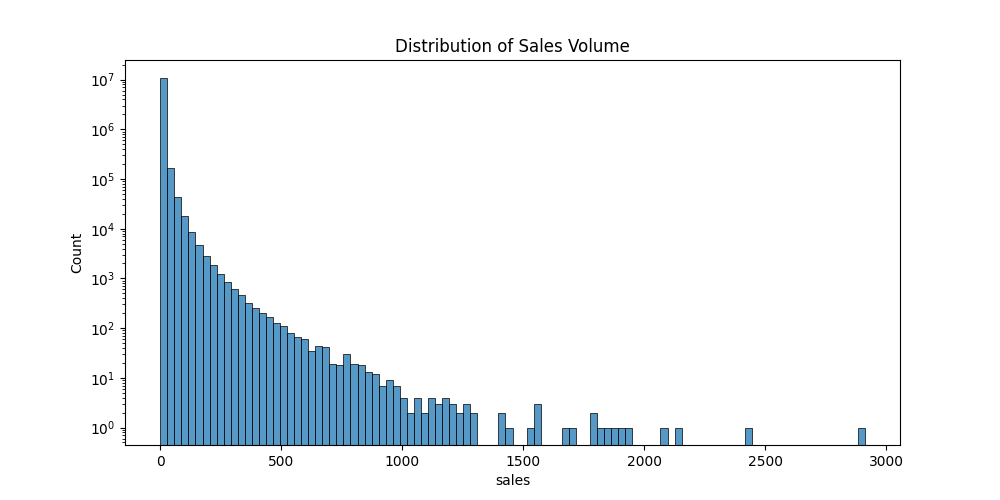
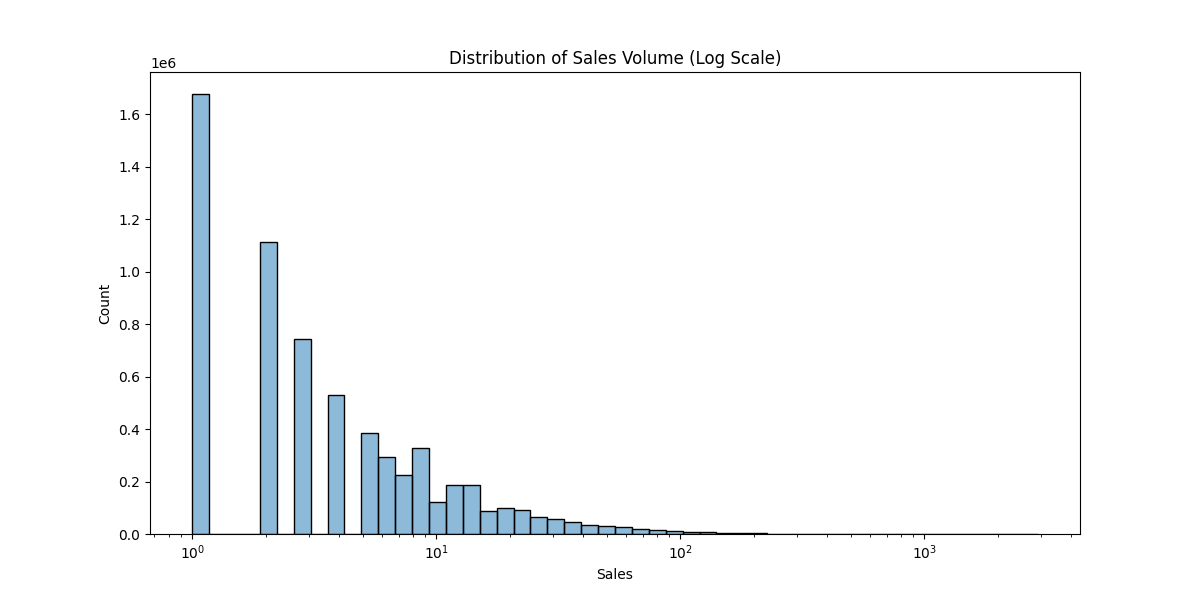
Updated  EDA

diff --git a/EDA.md b/EDA.md
@@ -3,7 +3,7 @@
 This analysis characterizes the high-dimensional feature space of the M5 Walmart dataset to validate the assumptions required for Causal Inference. The primary objective is to isolate the relationship between price shifts and quantity demanded while identifying the confounding variables that the Double Machine Learning (DML) framework must "partial out."
 
 ---
-## 1. Objective of Analysis
+## 1. Objectives of Analysis
 1. **Characterize Signal Strength**: Evaluate the frequency and magnitude of price changes (Treatment Variation).
 2. **Diagnose Endogeneity**: Identify correlations between price and historical demand (Lagged Sales).
 3. **Identify Confounding Factors**: Map the influence of external shocks (SNAP events, holidays) on sales volume.
@@ -74,7 +74,7 @@ These patterns highlight the importance of including time-based features and eve
 
 ---
 
-## 2. Project-Specific EDA: Demand Price Elasticity
+## 3. Project-Specific EDA: Demand Price Elasticity
 
 This section focuses on insights directly relevant to estimating the causal effect of price on demand.
 
@@ -82,9 +82,9 @@ This section focuses on insights directly relevant to estimating the causal effe
 
 This scatter plot, with a regression line, visually represents the naive correlation between `log_price` and `log_quantity`. We expect to see a downward-sloping trend, indicating that as price increases, quantity demanded decreases. The slope of this line would be the naive OLS elasticity. However, this plot often appears noisy due to unaddressed confounding, which DML aims to resolve.
 
-### Correlation Heatmap (Plot: `feature_correlation_heatmap.png`)
+### Correlation Heatmap (Plot: `correlation_heatmap.png`)
 
-This heatmap displays the pairwise correlations between the treatment (`log_price`), outcome (`log_quantity`), and key confounders (`month`, `snap_CA`, `snap_TX`, `snap_WI`, `lag_sales_1`).
+This heatmap displays the pairwise correlations between the treatment (`log_price`), outcome (`log_quantity`), and key confounders (`month`, `snap_CA`, `snap_TX`, `snap_WI`, `lag_sales_1`, `lag_sales_2`).
 
 **Observations:**
 *   **Confounder Identification**: High correlations between confounders (e.g., `month`, `snap_CA`) and both `log_price` and `log_quantity` would strongly suggest the presence of omitted variable bias in naive OLS. For instance, if `snap_CA` is positively correlated with `log_quantity` (more sales during SNAP weeks) and negatively correlated with `log_price` (Walmart offers discounts during SNAP weeks), it acts as a confounder.
@@ -92,6 +92,23 @@ This heatmap displays the pairwise correlations between the treatment (`log_pric
 
 ---
 
-## Conclusion of EDA
+## 4. Causal Diagnostics: Elasticity and Confounding
+
+### Price Volatility (Coefficient of Variation)
+A fundamental requirement for elasticity estimation is the presence of price variation. Items with "sticky prices" (zero change) provide no signal for the treatment effect.
+
+*   **Mean Price CV**: 0.0401
+*   **Median Price CV**: 0.0369
+*   **Sticky Prices**: 1,343 out of 14,370 item-store pairs exhibit zero price variation.
+
+### Endogeneity Check (Plot: `price_lag_sales_correlation.png`)
+This plot examines the correlation between `log_price` and `lag_sales_1`. Since retailers adjust prices based on past sales performance, this confirms the endogeneity of price, reinforcing the need for DML to disentangle the causal effect.
+
+### Departmental Distribution (Plot: `log_quantity_by_department.png`)
+The spread of sales volume across departments hints at potential heterogeneity in demand patterns and price sensitivities.
+
+---
+
+## 5. Conclusion of EDA
 
 The EDA confirms the complex nature of the M5 retail dataset, characterized by large scale, skewed sales distributions, strong temporal patterns, and clear indications of confounding. These observations strongly justify the choice of Double Machine Learning, which is designed to handle such high-dimensional data and complex relationships to isolate the true causal effect of price on demand. The EDA also provides initial visual and statistical cues that will be further explored and validated by the various robustness and falsification tests.